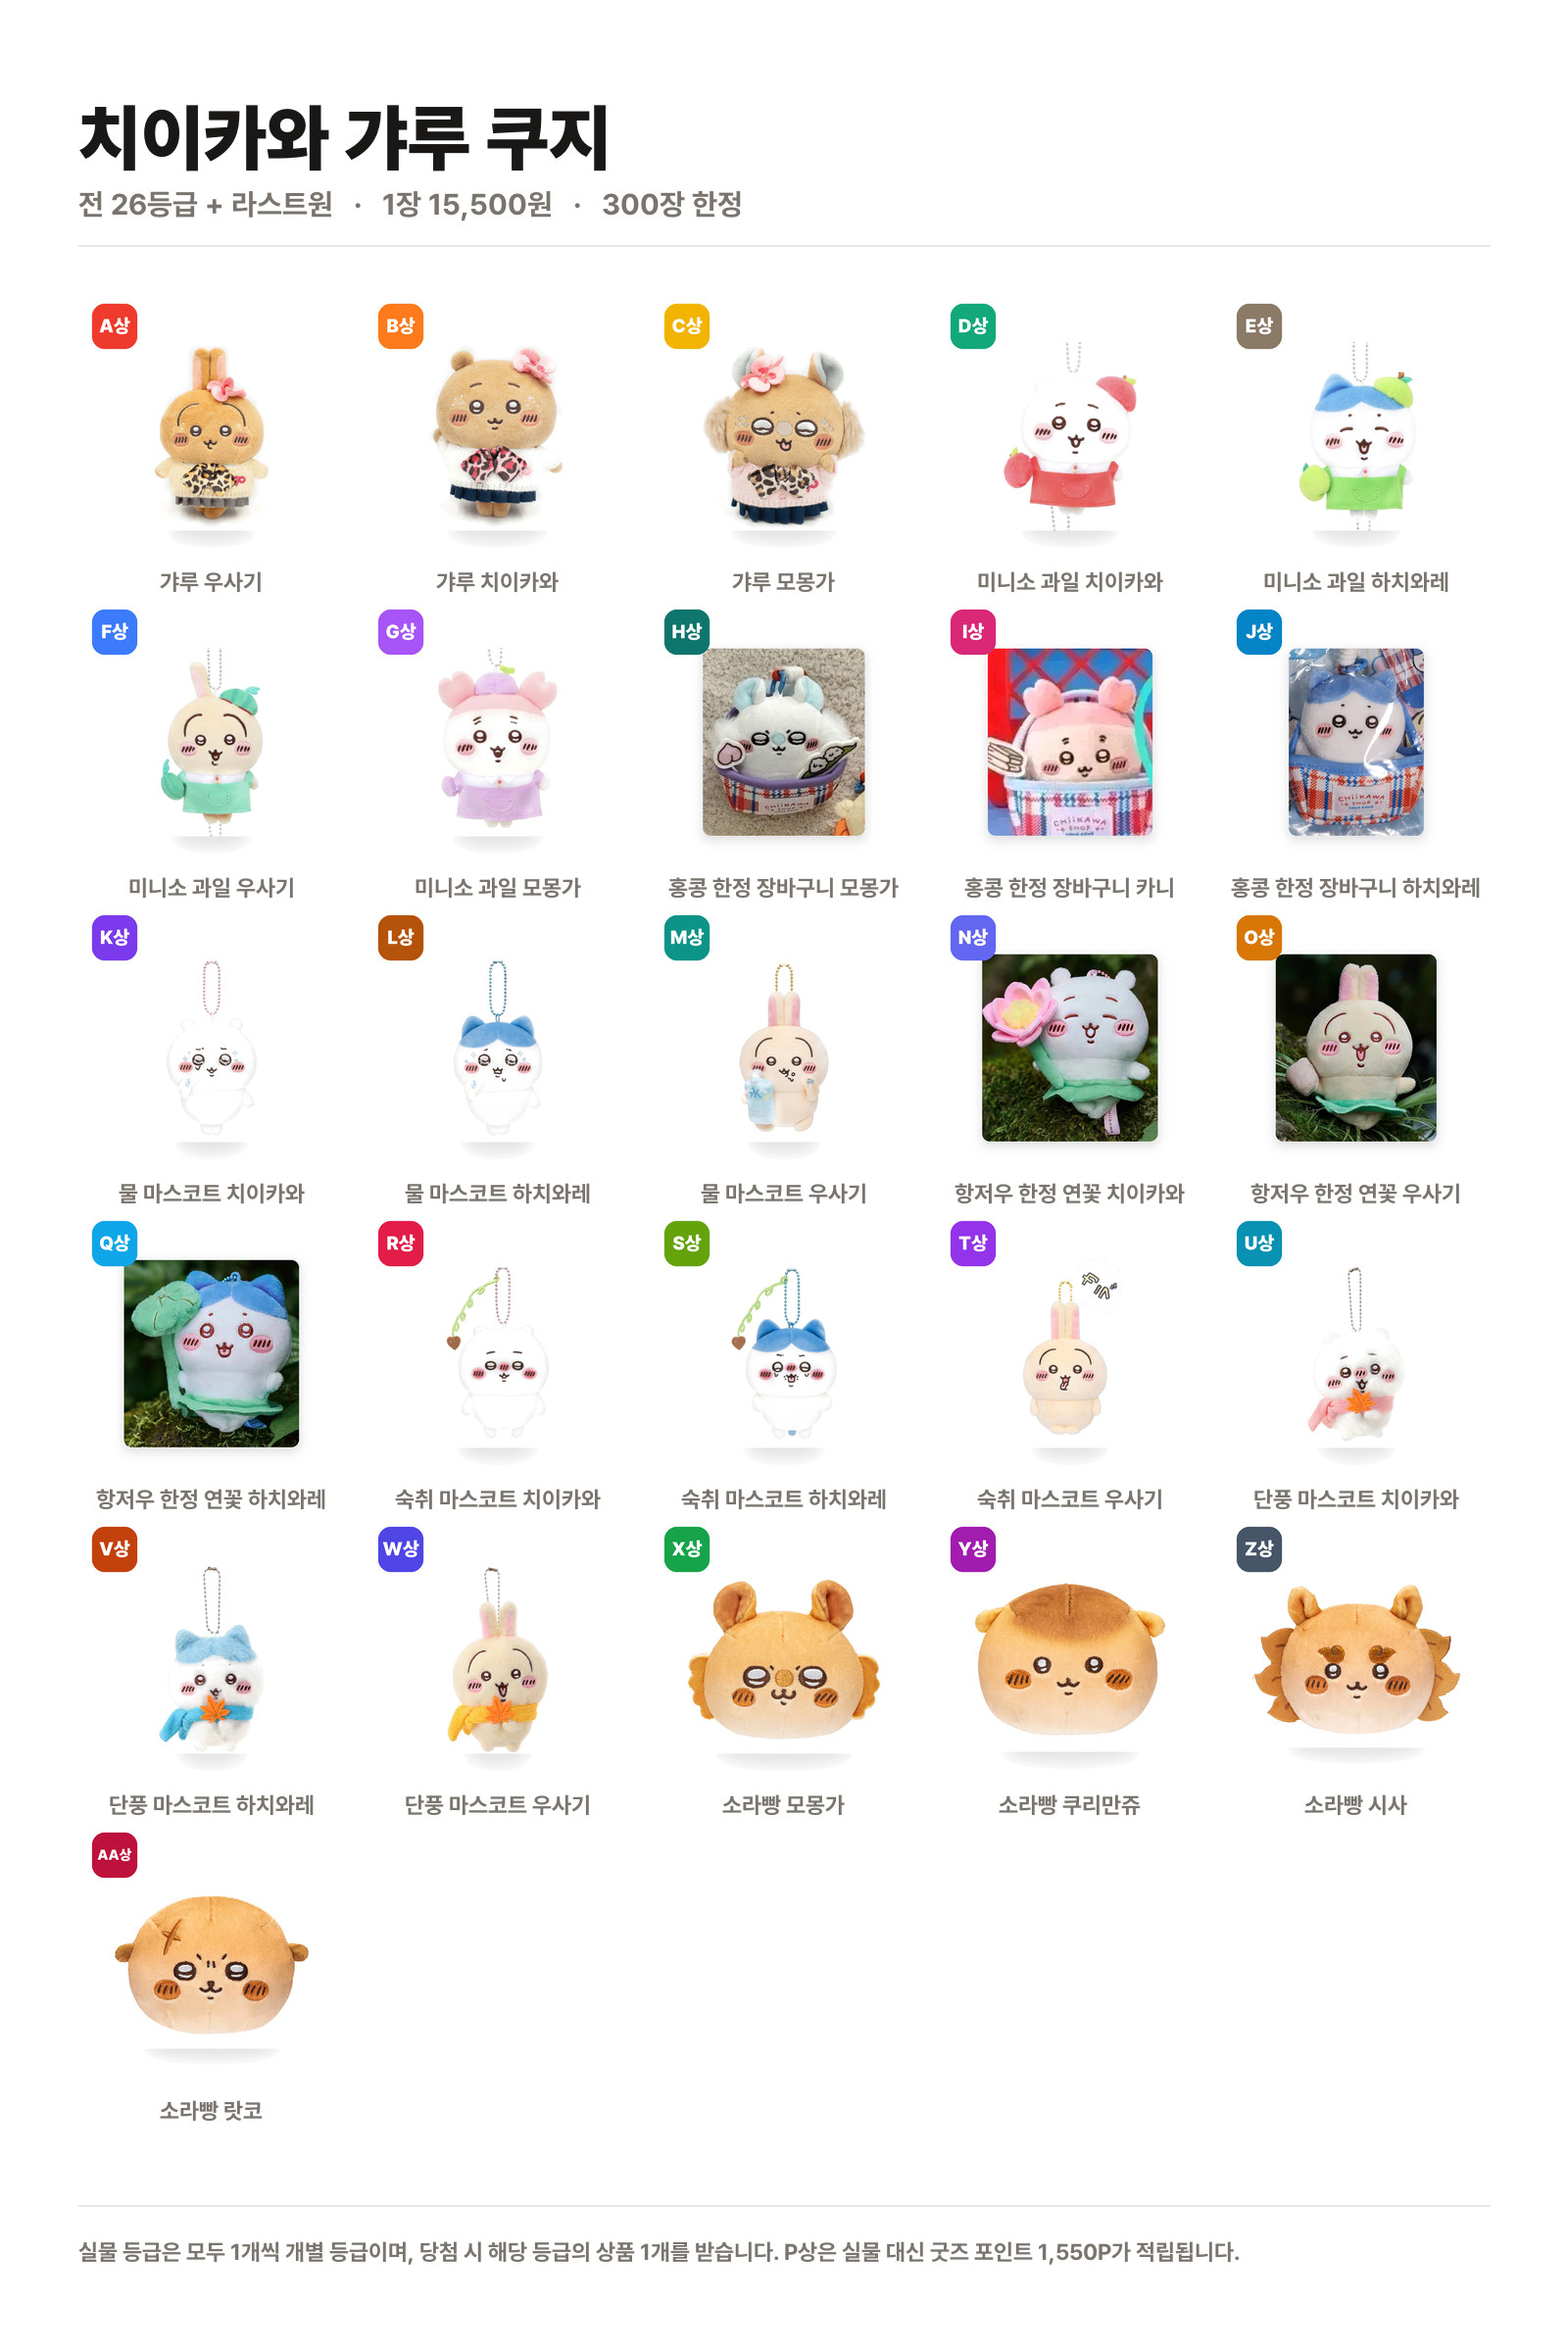
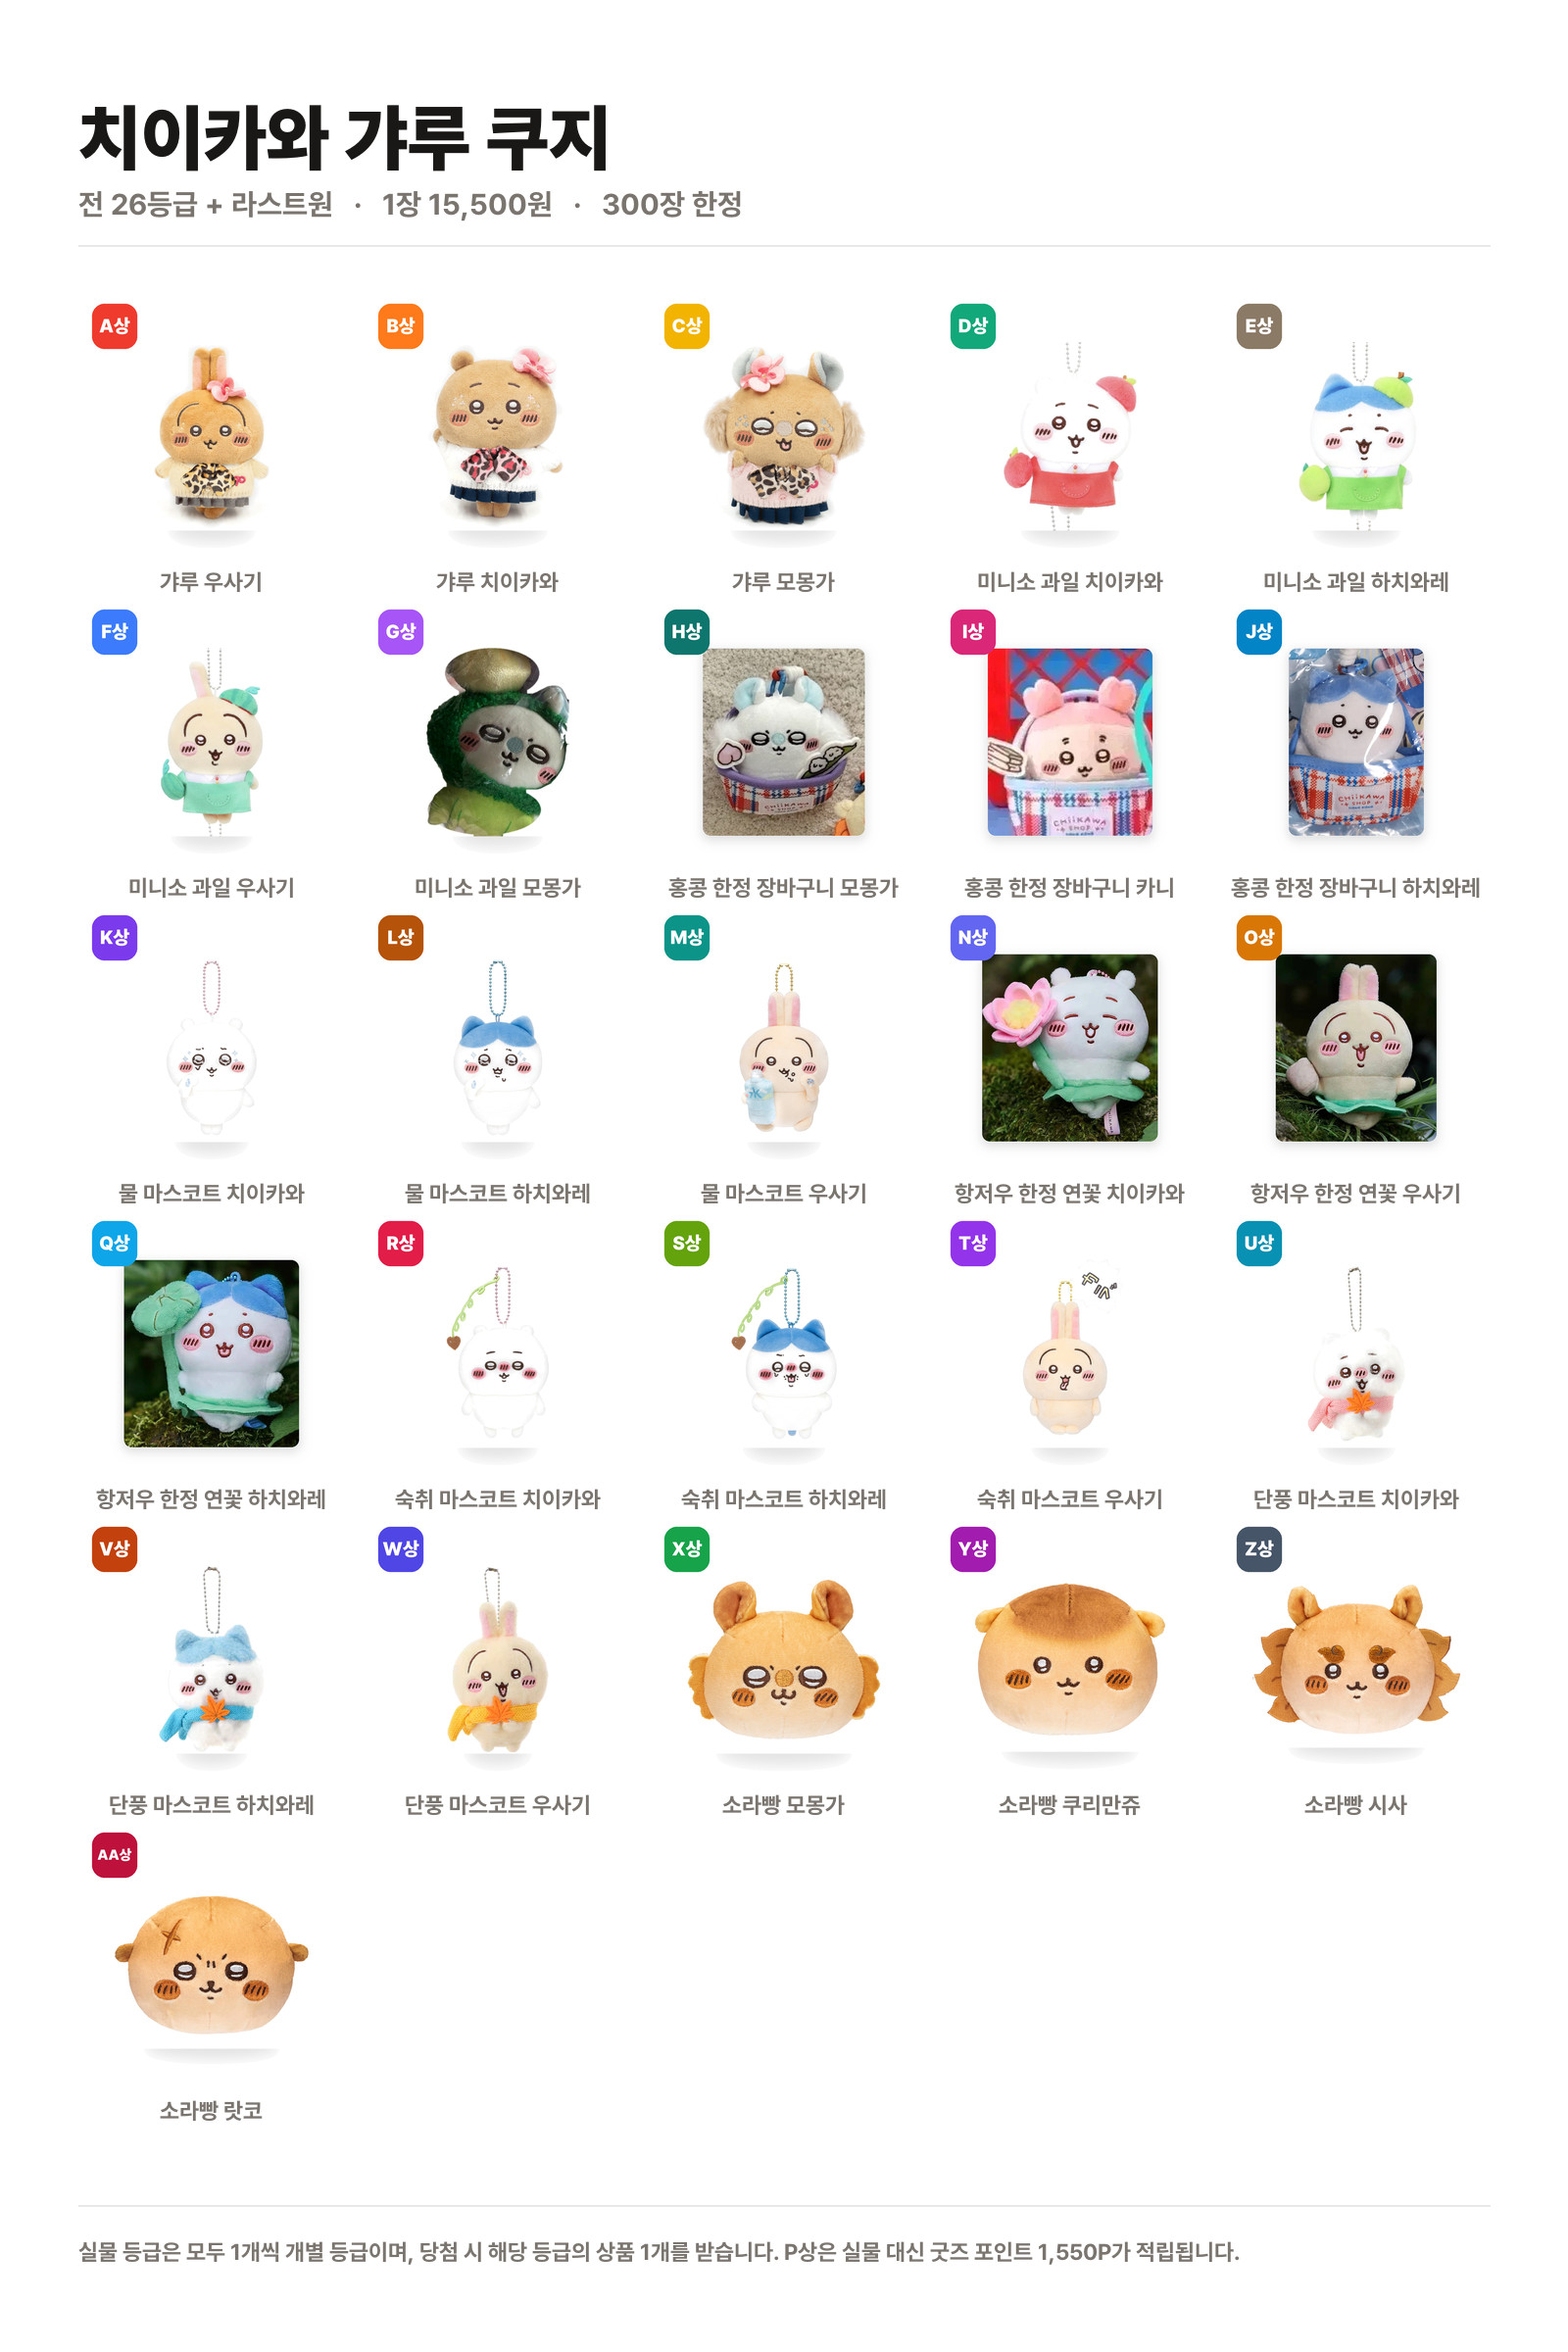
v4.4.28 갸루 G상 미니소 과일 모몽가 실물 일치(파인애플 탈 실사진 → 순백 카드) + 관리자 배송·출고에 판 이름 배지·상품 썸네일(단건·합배송) + 갸루 라인업 재생성, COVER_VER 4.4.28

Changed region(s): [[0.25, 0.25, 0.375, 0.375]]

diff --git a/assets/app.js b/assets/app.js
@@ -128,7 +128,7 @@
   }
   var h = escapeHtml;
   /* 실물 커버 등 상품 이미지 캐시 갱신용 버전 (커버 교체 시 올린다) */
-  var COVER_VER = '4.4.27';
+  var COVER_VER = '4.4.28';
   /* 판마다 지정한 스토어 링크가 없을 때 쓰는 기본 스마트스토어 상품 주소 */
   var DEFAULT_STORE_URL = STORE_PRODUCT_URL;
   /* P상(굿즈 포인트) 카드 기본 이미지 — 판에 P상 이미지가 없으면 이 이미지를 쓴다 */
@@ -9724,6 +9724,40 @@
     return out;
   }
 
+  /* v4.4.28 — 배송·출고에서 '어느 판 상품인지' + '상품 이미지'를 바로 보이게.
+     판은 카테고리가 둘 다 '치이카와'라 구분이 안 됐으므로 board.title 을 쓴다.
+     (뽑기판 전환 칩의 boardShortName 과는 별개 — 여기서는 '쿠지'까지 남겨 더 분명하게) */
+  function deliveryBoardName(board) {
+    var t = String((board && board.title) || '').replace(/^\s*\[[^\]]*\]\s*/, '').trim();
+    return t || String((board && board.category) || '판');
+  }
+  function boardChipHTML(board, boardId) {
+    if (!board && !boardId) return '';
+    var name = board ? deliveryBoardName(board) : '';
+    if (!name) return '';
+    return '<span class="dv-board-chip" title="' + h((board && board.title) || name) + '">' +
+      icon('box') + h(name) + '</span>';
+  }
+  /* 등급 → 상품 이미지 (라스트원은 board.lastOneImage 우선) */
+  function deliveryImageOf(board, grade) {
+    if (!board) return '';
+    var isLast = String(grade || '').toUpperCase() === 'LAST';
+    if (isLast) return board.lastOneImage || board.cover || '';
+    var t = tierOf(board, grade);
+    return (t && (tierImageOf(t) || t.image)) || board.cover || '';
+  }
+  function deliveryThumbHTML(board, grade, size) {
+    var img = deliveryImageOf(board, grade);
+    var isLast = String(grade || '').toUpperCase() === 'LAST';
+    var mark = isLast ? 'LAST' : gradeLetter(grade);
+    var cls = 'dv-thumb' + (size ? ' ' + size : '');
+    return '<span class="' + cls + '" style="--gc:' + gradeColor(grade) + '">' +
+      (img
+        ? '<img src="' + h(coverSrc(img)) + '" alt="' + h(mark) + '상 상품 이미지" loading="lazy" decoding="async">'
+        : '<b aria-hidden="true">' + h(mark) + '</b>') +
+      '</span>';
+  }
+
   function deliveryBatchHTML(d) {
     var items = deliveryBatchItems(d);
     if (items.length < 2) return '';
@@ -9735,13 +9769,13 @@
         }
         var board = getBoard(it.boardId);
         var isLast = String(it.grade || '').toUpperCase() === 'LAST';
-        var where = board ? board.category : '';
         var no = isLast ? '라스트원' : (it.n == null || it.n === '' ? '' : fmt(it.n) + '번');
-        var tail = [where, no].filter(Boolean).join(' ');
         return '<li>' +
+          deliveryThumbHTML(board, it.grade, 'sm') +
           '<span class="grade-badge sm' + (isLast ? ' grade-last' : '') + '" style="background:' + gradeColor(it.grade) + '" title="' + h(isLast ? '라스트원' : gradeLetter(it.grade) + '상') + '">' + h(isLast ? 'LAST' : gradeLetter(it.grade)) + '</span>' +
           '<span class="delivery-batch-name"><b>' + h(it.tierLabel || '당첨 상품') + '</b>' +
-            (tail ? '<em>(' + h(tail) + ')</em>' : '') + '</span>' +
+            '<span class="dv-tags">' + boardChipHTML(board, it.boardId) +
+            (no ? '<em>' + h(no) + '</em>' : '') + '</span></span>' +
         '</li>';
       }).join('') + '</ul>' +
     '</div>';
@@ -9762,13 +9796,20 @@
     el.innerHTML = rows.map(function (d) {
       var board = getBoard(d.boardId);
       var done = d.status === '출고완료';
+      var isBatch = !!(d.batchDrawIds && d.batchDrawIds.length > 1);
       return '<article class="delivery-card' + (done ? ' is-done' : '') + '">' +
         '<div class="delivery-head">' +
-          '<span class="status-pill ' + statusClass(done ? '출고완료' : '배송신청') + '">' + (done ? '출고 완료' : '출고 대기') + '</span>' +
-          '<b>' + h(d.itemLabel || '당첨 상품') + '</b>' +
-          (d.batchDrawIds && d.batchDrawIds.length > 1 ? '<span class="badge batch-badge">' + icon('box') + ' 합배송 ' + fmt(d.batchDrawIds.length) + '건</span>' : '') +
-          (d.grade ? '<span class="grade-badge sm' + (String(d.grade).toUpperCase() === 'LAST' ? ' grade-last' : '') + '" style="background:' + gradeColor(d.grade) + '">' + h(String(d.grade).toUpperCase() === 'LAST' ? 'LAST' : d.grade) + '</span>' : '') +
-          '<span class="muted small">' + h(board ? board.category : '') + ' · ' + formatDateTime(d.requestedAt) + '</span>' +
+          deliveryThumbHTML(board, d.grade, 'lg') +
+          '<div class="delivery-head-main">' +
+            '<div class="delivery-head-line">' +
+              '<span class="status-pill ' + statusClass(done ? '출고완료' : '배송신청') + '">' + (done ? '출고 완료' : '출고 대기') + '</span>' +
+              boardChipHTML(board, d.boardId) +
+              (isBatch ? '<span class="badge batch-badge">' + icon('box') + ' 합배송 ' + fmt(d.batchDrawIds.length) + '건</span>' : '') +
+              (d.grade ? '<span class="grade-badge sm' + (String(d.grade).toUpperCase() === 'LAST' ? ' grade-last' : '') + '" style="background:' + gradeColor(d.grade) + '">' + h(String(d.grade).toUpperCase() === 'LAST' ? 'LAST' : d.grade) + '</span>' : '') +
+            '</div>' +
+            '<b class="delivery-title">' + h(d.itemLabel || '당첨 상품') + '</b>' +
+            '<span class="muted small">' + formatDateTime(d.requestedAt) + '</span>' +
+          '</div>' +
         '</div>' +
         deliveryBatchHTML(d) +
         '<div class="delivery-body">' +

diff --git a/assets/styles.css b/assets/styles.css
@@ -1782,10 +1782,37 @@ html.is-page-hidden *{animation-play-state:paused !important}
 .delivery-batch-name b{font-weight:900;word-break:keep-all}
 .delivery-batch-name em{font-style:normal;font-size:11.5px;font-weight:700;color:var(--muted)}
 .delivery-batch-list li.is-missing .delivery-batch-name b{color:var(--muted);font-weight:700}
+/* v4.4.28 — 배송·출고: 어느 판 상품인지(판 배지) + 상품 썸네일 */
+.delivery-head{align-items:flex-start}
+.delivery-head-main{display:flex;flex-direction:column;gap:3px;min-width:0;flex:1 1 220px}
+.delivery-head-line{display:flex;align-items:center;gap:6px;flex-wrap:wrap}
+.delivery-head .delivery-title{font-size:15px;font-weight:900;line-height:1.35;word-break:keep-all}
+.dv-board-chip{
+  display:inline-flex;align-items:center;gap:4px;max-width:100%;
+  padding:3px 8px 3px 6px;border-radius:999px;
+  background:#fff3d6;border:1.5px solid var(--ink);
+  font-size:11px;font-weight:900;letter-spacing:-.2px;color:var(--ink);white-space:nowrap;
+  overflow:hidden;text-overflow:ellipsis;
+}
+.dv-board-chip .ico{width:11px;height:11px;flex:none}
+.dv-thumb{
+  flex:none;display:grid;place-items:center;overflow:hidden;
+  background:#fff;border:1.5px solid var(--line-strong);border-radius:12px;
+  box-shadow:0 2px 0 rgba(23,18,14,.06);
+}
+.dv-thumb img{width:100%;height:100%;object-fit:contain;display:block}
+.dv-thumb b{font-size:11px;font-weight:900;color:var(--gc,#8b7a66)}
+.dv-thumb.lg{width:56px;height:56px;border-radius:14px}
+.dv-thumb.sm{width:44px;height:44px;border-radius:10px}
+.dv-tags{display:inline-flex;align-items:center;gap:6px;flex-wrap:wrap;min-width:0}
 @media (max-width:560px){
   .delivery-batch{padding:9px 10px}
   .delivery-batch-name{font-size:12.5px}
   .delivery-batch-name em{font-size:11px}
+  .dv-thumb.lg{width:48px;height:48px;border-radius:12px}
+  .dv-thumb.sm{width:40px;height:40px;border-radius:9px}
+  .dv-board-chip{font-size:10.5px}
+  .delivery-head-main{flex-basis:100%}
 }
 
 .setup-steps{margin:12px 0 10px;padding-left:0;display:flex;flex-direction:column;gap:7px;list-style:none;counter-reset:setup}

diff --git a/index.html b/index.html
@@ -22,7 +22,7 @@
 <link rel="stylesheet" href="https://fonts.googleapis.com/css2?family=Black+Han+Sans&family=Do+Hyeon&display=swap">
 <link rel="stylesheet" href="https://cdn.jsdelivr.net/gh/orioncactus/pretendard@v1.3.9/dist/web/variable/pretendardvariable-dynamic-subset.min.css">
 <link rel="preconnect" href="https://t1.kakaocdn.net" crossorigin>
-<link rel="stylesheet" href="assets/styles.css?v=4.4.27">
+<link rel="stylesheet" href="assets/styles.css?v=4.4.28">
 <script type="application/ld+json">
 {"@context":"https://schema.org","@type":"WebSite","name":"쿠지킹","alternateName":"KUJIKING","url":"https://kujiking.co.kr/"}
 </script>
@@ -900,7 +900,7 @@
       <button type="button" data-action="open-policy" data-policy="probability">확률 공시</button>
     </nav>
     <p class="footer-note">본 상품은 무작위 추첨 상품입니다. 교환 코드 사용(개봉) 후에는 청약철회가 제한됩니다. <b>만 19세 이상 성인 전용 서비스</b>로, 미성년자는 이용할 수 없습니다.</p>
-    <p class="footer-copy">© 2026 쿠지킹. All rights reserved. · <span class="proto-tag" id="protoTag">v4.4.27</span></p>
+    <p class="footer-copy">© 2026 쿠지킹. All rights reserved. · <span class="proto-tag" id="protoTag">v4.4.28</span></p>
   </div>
 </footer>
 
@@ -943,6 +943,6 @@
 </div>
 
 <script src="assets/config.js?v=3.0.2"></script>
-<script src="assets/app.js?v=4.4.27" defer></script>
+<script src="assets/app.js?v=4.4.28" defer></script>
 </body>
 </html>
